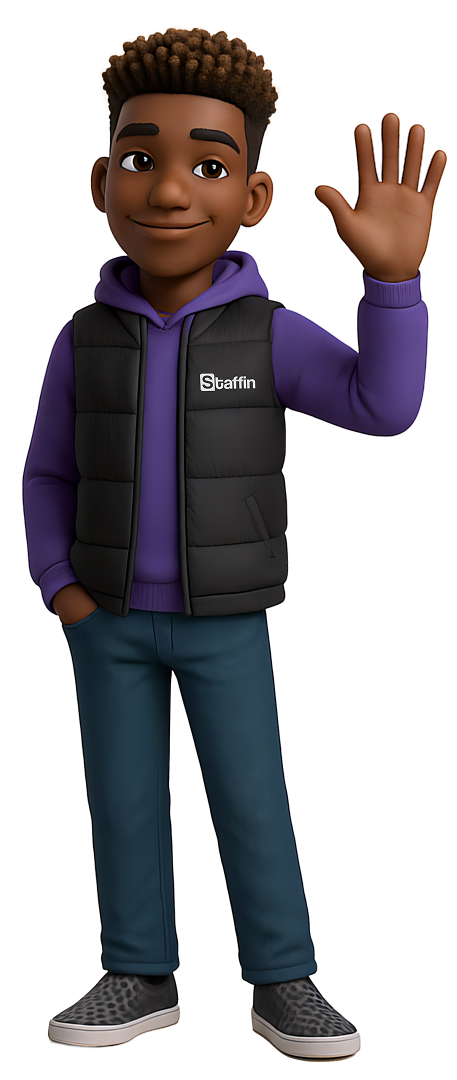
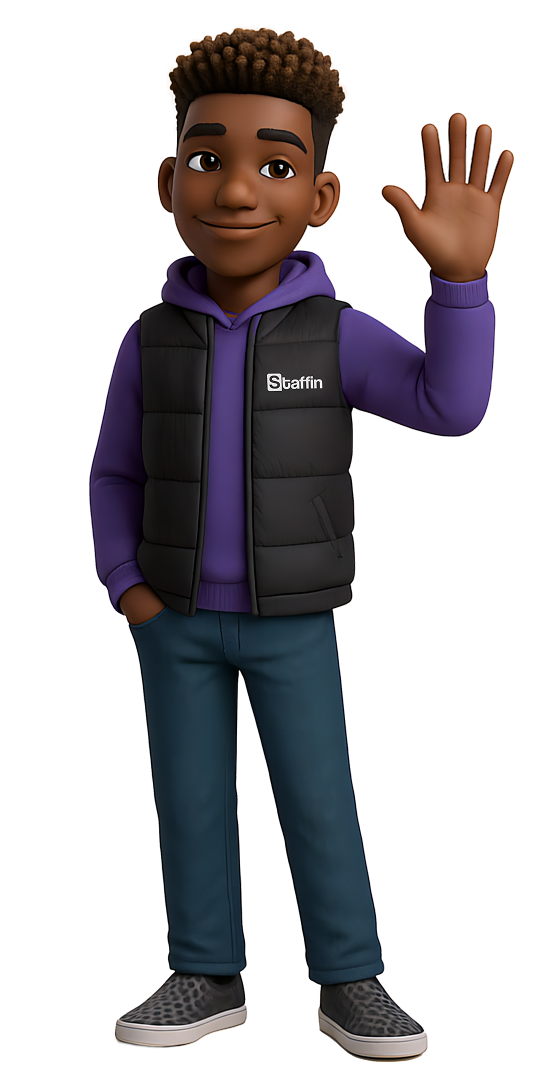
fix: button styles

diff --git a/components/UI/PostTemplate.tsx b/components/UI/PostTemplate.tsx
@@ -12,7 +12,7 @@ import { useAuth } from '@/contexts/authContext'
 import { fetchImageFromCDN } from '@/utils/CDN-action'
 import { useQuery } from '@tanstack/react-query'
 import { getPostDetails, getUserById, likePost, unlikePost } from '@/api/backend'
-import { ProfileAvatar } from './ProfileAvatar'
+import { CompanyAvatar, ProfileAvatar } from './ProfileAvatar'
 import { number } from 'yup'
 
 interface Props {
@@ -27,30 +27,17 @@ const PostTemplate = ({postId, authorId, post, postsRefetch, postIsLoading}: Pro
   const { theme } = useTheme()
   const { t } = useTranslation();
   const { isLoading, authState:{ userData, userId } } = useAuth();
-
-  // const {data: post, refetch: postRefetch, isLoading: postIsLoading} = useQuery({
-  //   queryKey: ["post", postId],
-  //   queryFn: async () => {
-  //     const response = await getPostDetails(postId)
-
-  //     if (response) {
-  //       //console.log('res:', response);
-  //       return response
-  //     } else {
-  //       return (
-  //         <ActivityIndicator color={theme.colors.primary} />
-  //       )
-  //     }
-   
-  //   }
-  // }) 
   
   const {data: user} = useQuery({
     queryKey: ['author', authorId],
     queryFn: async () => {
-      return await getUserById(authorId)
+      const response = await getUserById(authorId)
+
+      return response
     }
   })
+
+
 
   const [authorImage, setAuthorImage] = useState('')
   const [postImages, setPostImages] = useState([])
@@ -59,23 +46,26 @@ const PostTemplate = ({postId, authorId, post, postsRefetch, postIsLoading}: Pro
 
 
   useEffect(() => {
+    const likedByUser = post.likes?.some(item => item.userId === Number(userId)) || false;
+    setLiked(likedByUser);
     
-    const fetchUrl = async () =>{
-      const url = await fetchImageFromCDN(user)
-      setAuthorImage(url)
-    }
-    if(user?.profileImage) {
-      fetchUrl()
-    }
-  },[])
+  }, [post.likes, userId]);
 
   useEffect(() => {
+    const isLiked = async () => {
+      post.likes?.find((item) => {
+        if (item.userId === Number(userId)){
+          return setLiked(true)
+        }
+        return setLiked(false)
+      })
+    }
 
+    isLiked()
   },[])
 
 
   const handleLikeAction = async (id: number) => {
-
     if (liked === true) {
       await unlikePost(id)
       setLiked(false)
@@ -100,12 +90,13 @@ const PostTemplate = ({postId, authorId, post, postsRefetch, postIsLoading}: Pro
       <View style={{...styles.headerContainer}}>
 
         <View style={{...styles.userContainer}}>
+         
           <ProfileAvatar
             user={user}
             size={40}
             handleUpdate={() => {}}
           />
-
+          
           <View style={{...styles.headerTextGroup}}>
             <Text 
               style={{
@@ -221,7 +212,7 @@ export default PostTemplate
 const styles = StyleSheet.create({
   postContainer: {
     width: '100%',
-    padding: theme.spacing?.md,
+    //padding: theme.spacing?.md,
     flexDirection: 'column',
   },
   headerContainer: {

diff --git a/components/Pages/TabsComponents/Profile/AdminProfile/CompanyProfile.tsx b/components/Pages/TabsComponents/Profile/AdminProfile/CompanyProfile.tsx
@@ -29,6 +29,7 @@ import CreatePostModal from '../../Activity/CreatePostModal';
 import BranchList from './Company/Branch/branches';
 import AddBranchModal from './Company/Branch/addBranch';
 import { useQuery } from '@tanstack/react-query';
+import { CompanyAvatar } from '@/components/UI/ProfileAvatar';
 
 
 
@@ -157,10 +158,12 @@ const CompanyProfile = ({company, showEditButton, post, refetch, companyId }: pr
             backgroundColor: theme.colors.background
           }}
         >
-          {avatar !== "" 
-            ? <Avatar size={80} rounded source={{uri: avatar }} />      
-            : <Avatar size={80} rounded icon={{name: "account", type: "material-community"}} containerStyle={{ backgroundColor: theme.colors.grey3 }}  />
-          }
+          <CompanyAvatar 
+            company={company}
+            size={80}
+            handleUpdate={branchRefetch}
+          />
+
 
           {showEditButton && (
             <TouchableOpacity

diff --git a/utils/CDN-action.ts b/utils/CDN-action.ts
@@ -5,6 +5,7 @@ import { getItem } from "./asyncStorage";
 import { CDN_TOKEN } from "@/constants/key";
 import * as ImageManipulator from 'expo-image-manipulator';
 import { manipulateAsync, SaveFormat } from 'expo-image-manipulator';
+import { string } from "yup";
 
 export const baseURL = process.env.EXPO_PUBLIC_CDN_API_URL
 
@@ -27,10 +28,10 @@ export const getImageUrl = (key: string, userId: number, contentFolder: any) => 
 };
 
 
-export const fetchImageFromCDN = async (user: IUser) => {
-  const userId = user?.id;
-  const contentFolder = "profile";
-  const key = user?.profileImage;
+export const fetchImageFromCDN = async ({userId, contentFolder, key}:{userId: number, contentFolder:"profile"|"post", key: string }) => {
+  //const userId = user?.id;
+  //const contentFolder = "profile";
+  //const key = user?.profileImage;
 
   // console.log('fetch image', userId);
   

diff --git a/components/UI/ProfileAvatar.tsx b/components/UI/ProfileAvatar.tsx
@@ -30,7 +30,12 @@ export const ProfileAvatar = ({user, size, handleUpdate}:userProps) => {
   useEffect(() => {
     const fetchUrl = async () =>{
       // console.log('staff image:', user.profileImage, user.id);
-      const url = await fetchImageFromCDN(user)
+
+      const url = await fetchImageFromCDN({
+        userId: user?.id,
+        contentFolder: "profile",
+        key: user?.profileImage 
+      })
       setAvatar(url)
     }
     if(user?.profileImage) {
@@ -49,7 +54,7 @@ export const ProfileAvatar = ({user, size, handleUpdate}:userProps) => {
   )
 }
 
-export const companyAvatar = ({company, size, handleUpdate}: companyProps) => {
+export const CompanyAvatar = ({company, size, handleUpdate}: companyProps) => {
   const { theme } = useTheme();
   const { authState, setAuthState } = useAuth()
   const [avatar, setAvatar] = useState("")

diff --git a/components/Viewpager/Introduction.tsx b/components/Viewpager/Introduction.tsx
@@ -459,7 +459,7 @@ const PageThree = ({user, handleSuccess, onClose, goToNext, goBack}: pageProps) 
         }
       />
       <Image 
-        source={require('@/assets/image/onboarding/Jack7.png')} 
+        source={require('@/assets/image/onboarding/Jack8.png')} 
         style={{...styles.imageStyle}}
       />
     </View>
@@ -856,11 +856,12 @@ const styles = StyleSheet.create({
     //backgroundColor: 'red'
   },
   imageStyle: {
-    position: 'absolute',
-    right: 0,
-    top: 350,
+    //position: 'absolute',
+    left: 0,
+    top: 50,
     bottom: 0,
-    height: 350,
+    //width: 180,
+    height: 300,
     resizeMode: 'contain',
     zIndex: 9999,
     //backgroundColor: "green",

diff --git a/components/Pages/TabsComponents/Profile/StaffProfile/Languages/editLanguageModal.tsx b/components/Pages/TabsComponents/Profile/StaffProfile/Languages/editLanguageModal.tsx
@@ -166,12 +166,12 @@ const EditLanguageModal = ({visible, onClose, handleSuccess, id, data}: props) =
           title={`${t("cancel")}`}
           onPress={onClose}
           size='md'
-          type='clear'
+          type='outline'
           titleStyle={{ ...pageStyle.button16}}
           radius={"sm"}
           containerStyle={{
             ...styles.buttonContainer,
-            borderColor: theme.colors.divider,                     
+            borderColor: theme.colors.primary,                     
             borderWidth: 2,
             borderRadius:10,
           }}

diff --git a/components/Pages/TabsComponents/Profile/AdminProfile/Company/Edit/aboutModal.tsx b/components/Pages/TabsComponents/Profile/AdminProfile/Company/Edit/aboutModal.tsx
@@ -132,7 +132,7 @@ const CompanyAboutModal = ({user, visible, onClose, handleSuccess}: props) => {
                       title={`${t("cancel")}`}
                       onPress={onClose}
                       size='md'
-                      type='clear'
+                      type='outline'
                       titleStyle={{ ...pageStyle.button16 }}
                       radius={"sm"}
                       containerStyle={{

diff --git a/components/Pages/TabsComponents/Profile/AdminProfile/Company/Edit/CompanyInfoModal.tsx b/components/Pages/TabsComponents/Profile/AdminProfile/Company/Edit/CompanyInfoModal.tsx
@@ -262,7 +262,7 @@ const CompanyInfoModal = ({user, visible, onClose, handleSuccess}: props) => {
                       title={`${t("cancel")}`}
                       onPress={onClose}
                       size='md'
-                      type='clear'
+                      type='outline'
                       titleStyle={{...pageStyle.button16}}
                       radius={"sm"}
                       containerStyle={{

diff --git a/components/Pages/TabsComponents/Profile/AdminProfile/Admin/Edit/AdminInfoModal.tsx b/components/Pages/TabsComponents/Profile/AdminProfile/Admin/Edit/AdminInfoModal.tsx
@@ -332,7 +332,7 @@ const AdminInfoModal = ({user, visible, onClose, handleSuccess}: props) => {
                       title={`${t("cancel")}`}
                       onPress={onClose}
                       size='md'
-                      type='clear'
+                      type='outline'
                       titleStyle={{...pageStyle.button16}}
                       radius={"sm"}
                       containerStyle={{

diff --git a/components/Pages/TabsComponents/Profile/StaffProfile/Edit/aboutModal.tsx b/components/Pages/TabsComponents/Profile/StaffProfile/Edit/aboutModal.tsx
@@ -129,7 +129,7 @@ const AboutModal = ({user, visible, onClose, handleSuccess}: props) => {
                       title={`${t("cancel")}`}
                       onPress={onClose}
                       size='md'
-                      type='clear'
+                      type='outline'
                       titleStyle={{ ...pageStyle.button16 }}
                       radius={"sm"}
                       containerStyle={{

diff --git a/components/Pages/TabsComponents/Profile/StaffProfile/Edit/infoModal.tsx b/components/Pages/TabsComponents/Profile/StaffProfile/Edit/infoModal.tsx
@@ -355,7 +355,7 @@ const InfoModal = ({user, visible, onClose, handleSuccess}: props) => {
                       title={`${t("cancel")}`}
                       onPress={onClose}
                       size='md'
-                      type='clear'
+                      type='outline'
                       titleStyle={{...pageStyle.button16}}
                       radius={"sm"}
                       containerStyle={{

diff --git a/components/Pages/TabsComponents/Profile/StaffProfile/Education/editEducationModal.tsx b/components/Pages/TabsComponents/Profile/StaffProfile/Education/editEducationModal.tsx
@@ -389,7 +389,7 @@ const EditEducationModal = ({data, visible, onClose, handleSuccess}: props) => {
                         setChecked(false)
                       }}
                       size='md'
-                      type='clear'
+                      type='outline'
                       titleStyle={{ ...pageStyle.button16 }}
                       radius={"sm"}
                       containerStyle={{
